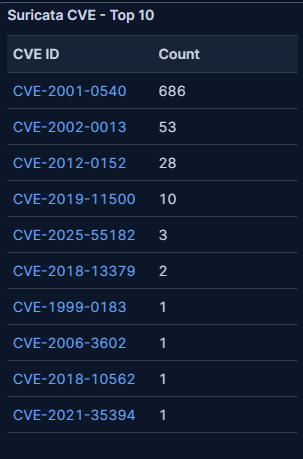
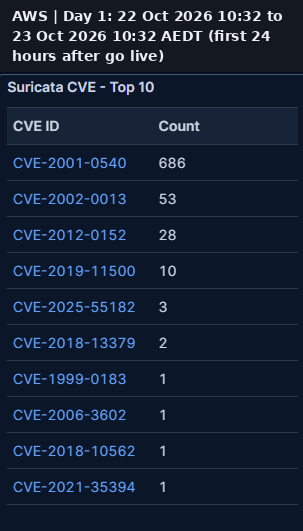
Same window Azure vs AWS comparison, labelled screenshots

Changed region(s): [[0.0, 0.0, 0.9802, 0.9455]]

diff --git a/phase1-honeypot-campaign/campaign-log.md b/phase1-honeypot-campaign/campaign-log.md
@@ -102,6 +102,33 @@ AWS went live on 22 Oct at 10:32 and this check in was about 24 hours later. No 
 - 544 alerts were ET INFO Reserved Internal IP Traffic, which is my own VPC traffic again, not attacks.
 - Careful comparing these to Azure Day 1. Different dates and Azure was down for about 7 hours. For a fair comparison I need Azure's numbers for the exact same window (22 Oct 10:32 to 23 Oct 10:32).
 
+### Same window comparison 1 (22 Oct 10:32 to 23 Oct 10:32 AEDT)
+
+First proper side by side. Both dashboards set to the exact same 24 hours in Kibana. The screenshots have the window written on top of them.
+
+| | Azure | AWS |
+| --- | --- | --- |
+| Total attacks | about 114,000 | about 28,000 |
+| Sentrypeer (VoIP) | 51k | 5k |
+| Cowrie (SSH and Telnet) | 32k | 5k |
+| Honeytrap (any other port) | 21k | 8k |
+| RDPHoneypot | 4k | 850 |
+| Dionaea (SMB and databases) | 3k | 8k |
+| Top username | root | sa |
+| DoublePulsar alerts | not in the top 10 (under 674) | 5,847 |
+| RDP connection request alerts | 1,527 | 686 |
+| CVE-2001-0540 count | 1,521 | 686 |
+
+**Screenshots:** screenshots/azure/day2-*.png and screenshots/aws/day1-*.png
+
+**Notes**
+- Azure got about 4 times more attacks in the same 24 hours. Almost half of Azure's was Sentrypeer (51k), so I need to check if that's one noisy scanner. Kibana Discover, type : "Sentrypeer", then look at the top src_ip.
+- Azure gets way more RDP (Windows Remote Desktop) traffic. RDP connection requests were 1,527 vs 686 and only Azure had ET HUNTING RDP Authentication Bypass Attempt (674) and ET SCAN MS Terminal Server Traffic on Non-standard Port (1,315) in its top 10. My guess is attackers expect Microsoft's cloud to be full of Windows servers.
+- AWS gets more SMB and database attacks. Dionaea is about 3% of Azure's traffic but about 29% of AWS's, AWS had way more DoublePulsar, and its top username is sa (SQL Server).
+- The CVE-2001-0540 count matches the GPL INFO MS Remote Desktop Request RDP alert exactly on both clouds (1,521 on Azure, 686 on AWS). So that CVE is really just normal RDP connections being tagged by one rule. Same pattern on both clouds so I'm confident about this one.
+- On Azure, enable, system and linuxshell showed up as usernames and passwords, plus GPL TELNET Bad Login (752). These look like Mirai style botnets that log into routers over Telnet and then send those commands to break out into a real Linux shell. So some of this is bots hunting for routers and IoT devices.
+- Only one day so far. Need a few more windows before calling anything a real difference.
+
 ## Ideas / questions to look into for the write-up
 
 - Always compare Azure and AWS over the exact same time window, not their own Day 1s.

diff --git a/README.md b/README.md
@@ -58,6 +58,20 @@ After the first day on Azure (about 32,000 attacks):
 - Some bots tried usernames like claude and openclaw, which looks like they're going after AI tools now.
 - Not every log is an attack. The first entries after going live were my own VMs talking to their cloud's internal services, so part of the job is filtering that out.
 
+### First same window comparison (22 Oct 10:32 to 23 Oct 10:32)
+
+| | Azure | AWS |
+| --- | --- | --- |
+| Total attacks in 24 hours | about 114,000 | about 28,000 |
+| Busiest honeypot | Sentrypeer (VoIP) 51k | Honeytrap and Dionaea 8k each |
+| Top username | root | sa (SQL Server admin) |
+| RDP connection requests | 1,527 | 686 |
+| DoublePulsar alerts | under 674 | 5,847 |
+
+Early pattern from one day: Azure gets a lot more Windows Remote Desktop attacks and AWS gets a lot more SMB and database attacks. I'll check if it holds over the rest of the month.
+
+One thing I learned: a CVE showing up in Suricata doesn't mean that exploit was used. CVE-2001-0540 matched a normal RDP connection alert exactly on both clouds, so it was just one rule tagging normal traffic with an old CVE.
+
 More detail is in the [campaign log](phase1-honeypot-campaign/campaign-log.md).
 
 ## Problems I've hit so far
